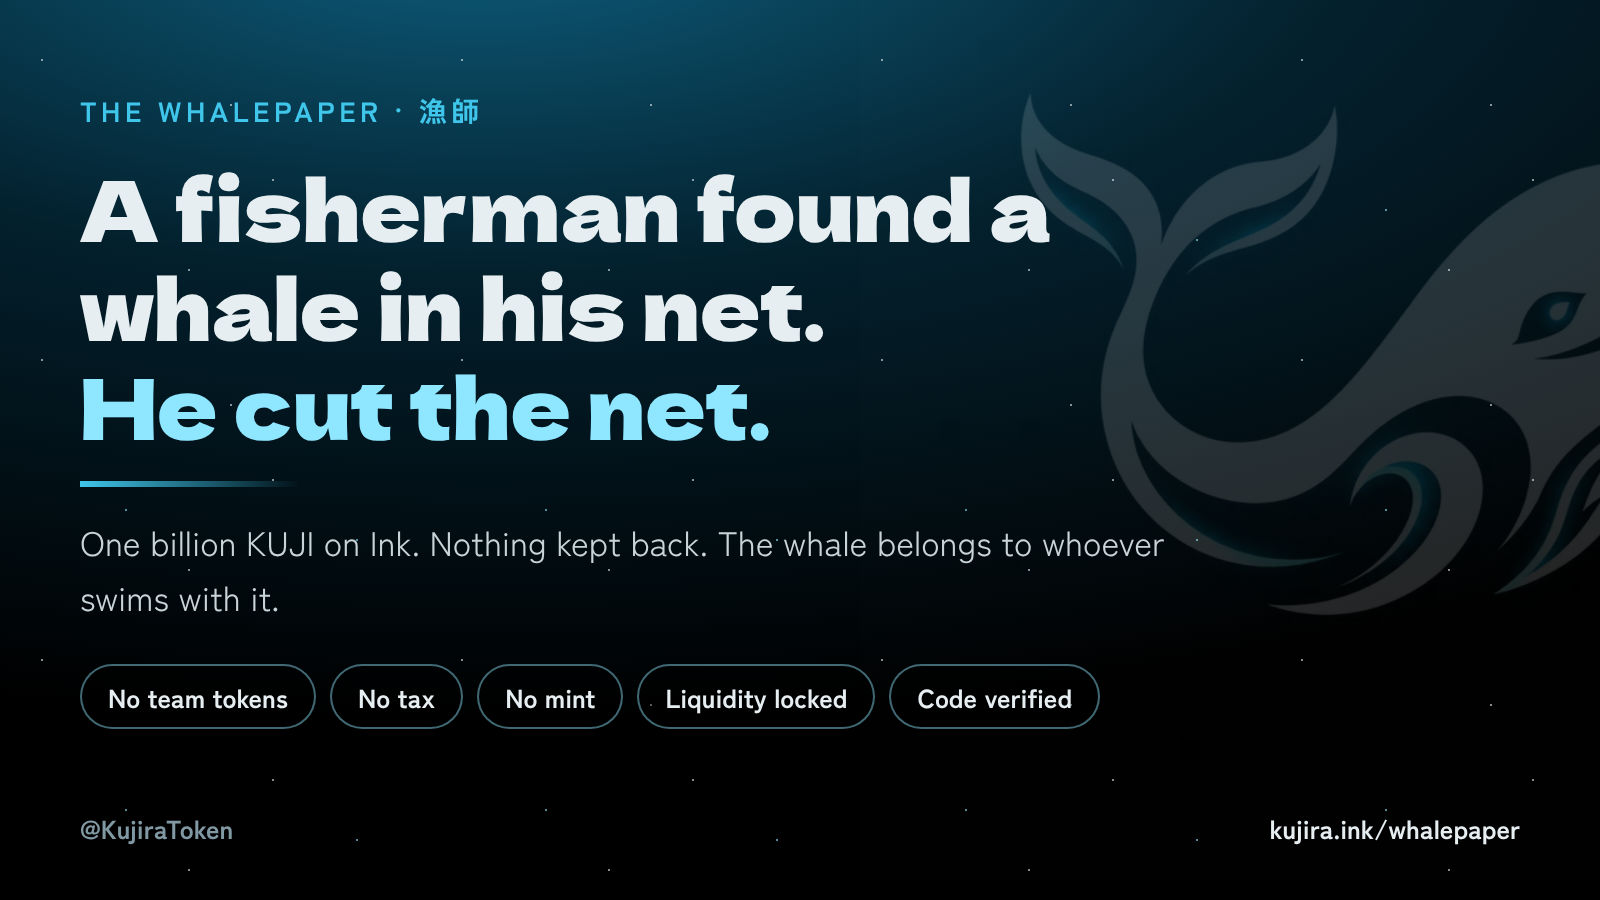
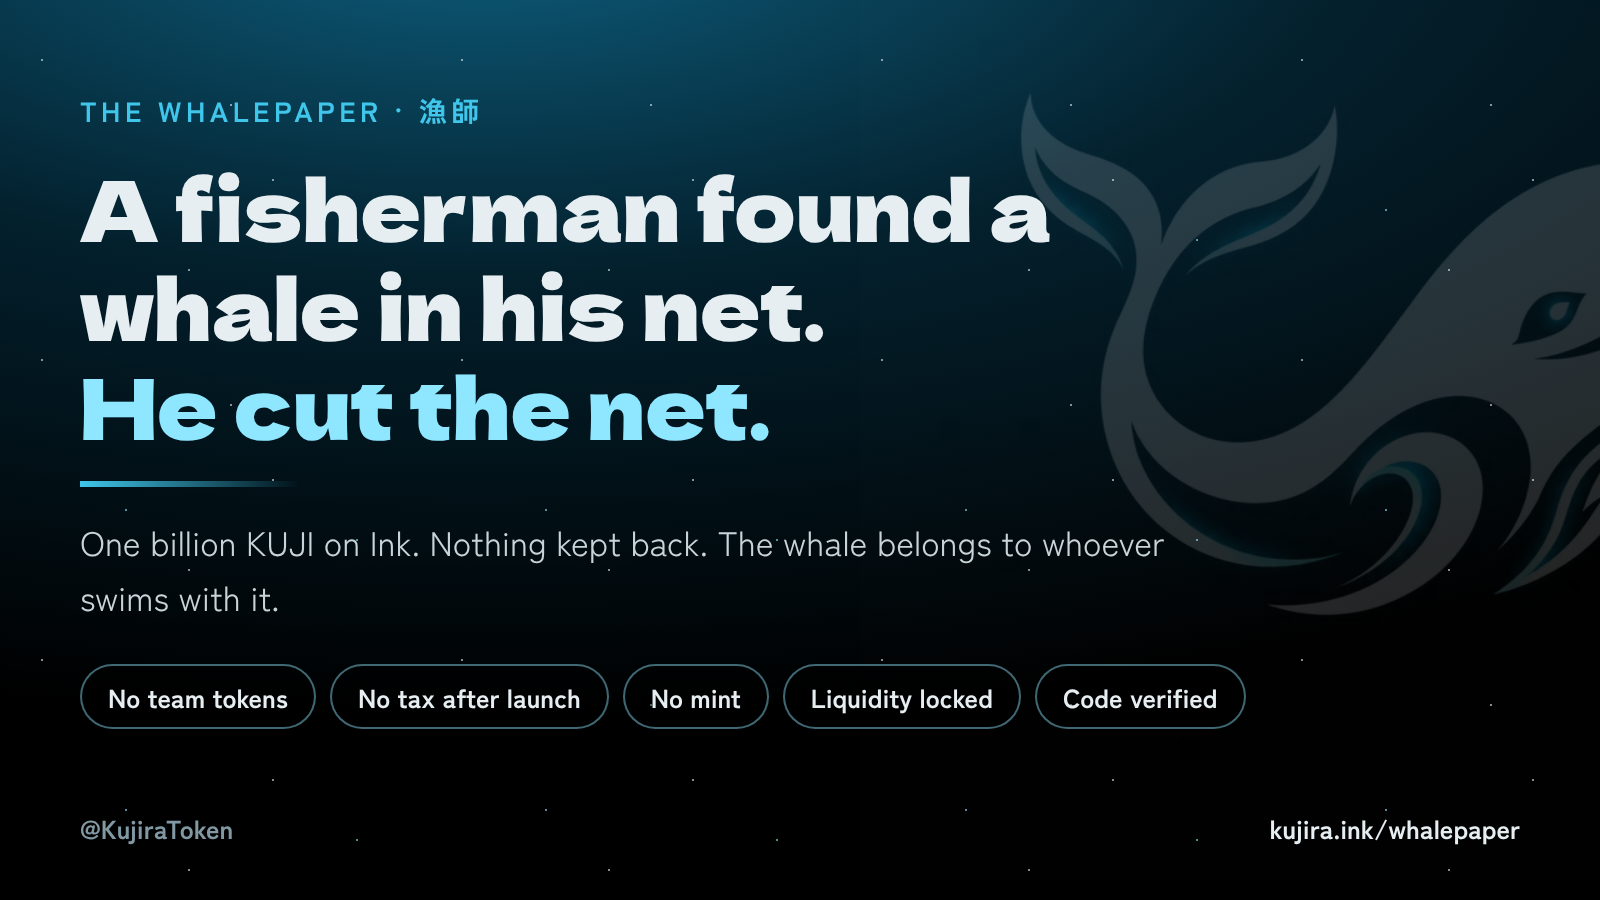
Add a launch tax on buys: 25% falling to 0 over the first 30 minutes
Against sniper bots. KujiraToken derives its 1% Uniswap v3 pool address from the
factory in the constructor and starts a 30-minute clock when the launch liquidity
first goes in. Buys from that pool pay 25% at the first second, falling linearly
to 0, sent to the fee wallet; after that nothing is taxed, ever. There is no owner
and no way to change or restart it. Sells aren't taxed: Uniswap v3 rejects tokens
that deliver less than they were sent into the pool.

Rehearsed on an Ink mainnet fork through Uniswap's router: the derived pool matches
the real one; buys paid 24.6% at 26 seconds, 12% at 15 minutes and 0 at 30; sells
in the window go through untaxed. The site shows the live rate during the window,
and the copy everywhere now says no tax after launch.

Claude-Session: https://claude.ai/code/session_01XxZqz6aMt2Q9VCvZQpjXkg

Changed region(s): [[0.2812, 0.7467, 0.7812, 0.8089]]

diff --git a/test/KujiraToken.test.js b/test/KujiraToken.test.js
@@ -1,10 +1,13 @@
 const { expect } = require("chai");
 const { ethers } = require("hardhat");
+const { time, impersonateAccount, setBalance } = require("@nomicfoundation/hardhat-toolbox/network-helpers");
+
+const NONE = [ethers.ZeroAddress, ethers.ZeroAddress, ethers.ZeroAddress];
 
 describe("KujiraToken", function () {
   it("mints the fixed supply once to the recipient", async function () {
     const [deployer, holder] = await ethers.getSigners();
-    const token = await ethers.deployContract("KujiraToken", [holder.address]);
+    const token = await ethers.deployContract("KujiraToken", [holder.address, ...NONE]);
     const supply = ethers.parseEther("1000000000");
     expect(await token.totalSupply()).to.equal(supply);
     expect(await token.balanceOf(holder.address)).to.equal(supply);
@@ -14,27 +17,114 @@ describe("KujiraToken", function () {
 
   it("rejects the zero address as recipient", async function () {
     const Token = await ethers.getContractFactory("KujiraToken");
-    await expect(Token.deploy(ethers.ZeroAddress)).to.be.revertedWithCustomError(Token, "ZeroAddress");
+    await expect(Token.deploy(ethers.ZeroAddress, ...NONE)).to.be.revertedWithCustomError(Token, "ZeroAddress");
   });
 
   it("has no owner or mint function", async function () {
     const [deployer] = await ethers.getSigners();
-    const token = await ethers.deployContract("KujiraToken", [deployer.address]);
+    const token = await ethers.deployContract("KujiraToken", [deployer.address, ...NONE]);
     expect(token.interface.getFunction("owner", [])).to.equal(null);
     expect(token.interface.getFunction("mint", [])).to.equal(null);
   });
 
   it("lets holders burn, shrinking total supply", async function () {
     const [deployer] = await ethers.getSigners();
-    const token = await ethers.deployContract("KujiraToken", [deployer.address]);
+    const token = await ethers.deployContract("KujiraToken", [deployer.address, ...NONE]);
     await token.burn(ethers.parseEther("1000"));
     expect(await token.totalSupply()).to.equal(ethers.parseEther("999999000"));
   });
 
   it("transfers the exact amount (no tax)", async function () {
     const [deployer, other] = await ethers.getSigners();
-    const token = await ethers.deployContract("KujiraToken", [deployer.address]);
+    const token = await ethers.deployContract("KujiraToken", [deployer.address, ...NONE]);
     await token.transfer(other.address, 12345n);
     expect(await token.balanceOf(other.address)).to.equal(12345n);
+  });
+
+  describe("launch tax", function () {
+    const FACTORY = "0x640887A9ba3A9C53Ed27D0F7e8246A4F933f3424";
+    const WETH = "0x4200000000000000000000000000000000000006";
+
+    async function launched() {
+      const [deployer, taxWallet, buyer] = await ethers.getSigners();
+      const token = await ethers.deployContract("KujiraToken", [deployer.address, FACTORY, WETH, taxWallet.address]);
+      const poolAddr = await token.pool();
+      await impersonateAccount(poolAddr);
+      await setBalance(poolAddr, ethers.parseEther("1"));
+      const pool = await ethers.getSigner(poolAddr);
+      return { token, deployer, taxWallet, buyer, pool };
+    }
+
+    it("derives the Uniswap pool address the factory will use", async function () {
+      const [deployer, taxWallet] = await ethers.getSigners();
+      const token = await ethers.deployContract("KujiraToken", [deployer.address, FACTORY, WETH, taxWallet.address]);
+      const k = await token.getAddress();
+      const [t0, t1] = k.toLowerCase() < WETH.toLowerCase() ? [k, WETH] : [WETH, k];
+      const salt = ethers.keccak256(ethers.AbiCoder.defaultAbiCoder().encode(["address", "address", "uint24"], [t0, t1, 10000]));
[1 lines of base64/hex data omitted]
+      expect(await token.pool()).to.equal(expected);
+      expect(await token.taxRecipient()).to.equal(taxWallet.address);
+    });
+
+    it("has no tax before launch, and the launch liquidity starts the clock untaxed", async function () {
+      const { token, deployer, pool } = await launched();
+      expect(await token.launchTaxBps()).to.equal(0n);
+      const amount = ethers.parseEther("550000000");
+      await expect(token.transfer(pool.address, amount)).to.emit(token, "Launched");
+      expect(await token.balanceOf(pool.address)).to.equal(amount);
+      expect(await token.launchedAt()).to.be.greaterThan(0n);
+      expect(await token.launchTaxBps()).to.equal(2500n);
+      expect(deployer.address).to.not.equal(pool.address);
+    });
+
+    it("taxes buys from 25% falling to 0 over 30 minutes, paid to the tax wallet", async function () {
+      const { token, taxWallet, buyer, pool } = await launched();
+      await token.transfer(pool.address, ethers.parseEther("550000000"));
+      const start = await token.launchedAt();
+      const buy = ethers.parseEther("1000");
+
+      // A buy one second after launch: 25% * (1799/1800)
+      await time.setNextBlockTimestamp(start + 1n);
+      await token.connect(pool).transfer(buyer.address, buy);
+      const tax1 = (buy * ((2500n * 1799n) / 1800n)) / 10000n;
+      expect(await token.balanceOf(taxWallet.address)).to.equal(tax1);
+      expect(await token.balanceOf(buyer.address)).to.equal(buy - tax1);
+
+      // Halfway: 12.5%
+      await time.setNextBlockTimestamp(start + 900n);
+      await token.connect(pool).transfer(buyer.address, buy);
+      expect(await token.balanceOf(taxWallet.address)).to.equal(tax1 + (buy * 1250n) / 10000n);
+
+      // After 30 minutes: nothing, ever again
+      await time.setNextBlockTimestamp(start + 1800n);
+      const before = await token.balanceOf(buyer.address);
+      await token.connect(pool).transfer(buyer.address, buy);
+      expect((await token.balanceOf(buyer.address)) - before).to.equal(buy);
+      expect(await token.launchTaxBps()).to.equal(0n);
+    });
+
+    it("never taxes sells, wallet transfers, or the tax wallet's own buys", async function () {
+      const { token, deployer, taxWallet, buyer, pool } = await launched();
+      await token.transfer(pool.address, ethers.parseEther("550000000"));
+      // sell into the pool
+      await token.transfer(buyer.address, ethers.parseEther("100"));
+      const poolBefore = await token.balanceOf(pool.address);
+      await token.connect(buyer).transfer(pool.address, ethers.parseEther("100"));
+      expect((await token.balanceOf(pool.address)) - poolBefore).to.equal(ethers.parseEther("100"));
+      // wallet to wallet
+      await token.transfer(buyer.address, 777n);
+      expect(await token.balanceOf(buyer.address)).to.equal(777n);
+      // the tax wallet buying
+      await token.connect(pool).transfer(taxWallet.address, ethers.parseEther("10"));
+      expect(await token.balanceOf(taxWallet.address)).to.equal(ethers.parseEther("10"));
+      expect(deployer.address).to.not.equal(buyer.address);
+    });
+
+    it("needs WETH and a tax wallet when a factory is given", async function () {
+      const [deployer] = await ethers.getSigners();
+      const Token = await ethers.getContractFactory("KujiraToken");
+      await expect(Token.deploy(deployer.address, FACTORY, WETH, ethers.ZeroAddress)).to.be.revertedWithCustomError(Token, "ZeroAddress");
+      await expect(Token.deploy(deployer.address, FACTORY, ethers.ZeroAddress, deployer.address)).to.be.revertedWithCustomError(Token, "ZeroAddress");
+    });
   });
 });

diff --git a/site/whalepaper.html b/site/whalepaper.html
@@ -67,7 +67,7 @@
     <section class="lore" data-depth="800" data-zone="Twilight Zone">
       <p class="zone-label">III. What Kujira is not</p>
       <h2 class="lore-head">Not a promise.</h2>
-      <p class="lore-body">KUJI is a meme. It has no intrinsic value, no roadmap of riches, no team, no presale, no investors and no tax. Nobody is promising you a return, and you should not buy anything you can't afford to lose. If it grows, it grows because people chose to gather.</p>
+      <p class="lore-body">KUJI is a meme. It has no intrinsic value, no roadmap of riches, no team, no presale, no investors, and no tax after the first 30 minutes. Nobody is promising you a return, and you should not buy anything you can't afford to lose. If it grows, it grows because people chose to gather.</p>
     </section>
 
     <section class="lore" data-depth="1200" data-zone="Midnight Zone">
@@ -77,9 +77,9 @@
         <li><b>No team tokens.</b> Not one KUJI held back.</li>
         <li><b>Liquidity locked forever.</b> The KUJI/ETH liquidity sits in a 1% Uniswap pool, owned by a contract with no way to remove it. Anyone can read it.</li>
         <li><b>No insider ETH.</b> The pool opened at a $10k market cap with KUJI only. Every ETH in it came from a buyer.</li>
-        <li><b>The one toll.</b> Every trade pays Uniswap's 1% pool fee, and that fee goes to the fisherman's wallet. It pays for the site, the art and the Drops. It's the only thing the fisherman takes, and the contract that collects it is public.</li>
+        <li><b>The tolls, out in the open.</b> Every trade pays Uniswap's 1% pool fee, and that fee goes to the fisherman's wallet; the contract that collects it is public. For the first 30 minutes there is also a launch tax on buys, starting at 25% and falling every second to 0, so sniper bots pay for rushing in. It goes to the same wallet, it's written into the token, and it can never be switched back on. These pay for the site, the art and the Drops, and they're everything the fisherman takes.</li>
         <li><b>Code you can read.</b> Every contract is verified on the Ink explorer, and the code is open.</li>
-        <li><b>No hidden switches.</b> No tax on transfers, no blacklist, no pause, no upgrades.</li>
+        <li><b>No hidden switches.</b> No tax after the launch window, no blacklist, no pause, no upgrades.</li>
       </ul>
       <p class="muted">The spirit is Ryoshi's, who launched Shiba Inu with no team allocation and the liquidity out of reach. Kujira isn't connected to Ryoshi or Shiba Inu.</p>
     </section>
@@ -120,7 +120,7 @@
       <h2 class="lore-head">The fisherman holds a rope, not a net.</h2>
       <ul class="tenets">
         <li><b>Can:</b> add rewards to the Pod, start Drop rounds from the published lists, burn unused Drop tokens, and collect the 1% pool fee.</li>
-        <li><b>Cannot:</b> mint KUJI, tax transfers, freeze a wallet, touch anyone's stake, take the Drop or Pod pools, or remove the locked liquidity.</li>
+        <li><b>Cannot:</b> mint KUJI, add or extend a tax, freeze a wallet, touch anyone's stake, take the Drop or Pod pools, or remove the locked liquidity.</li>
         <li><b>Will:</b> hand the remaining controls to a community multisig, or give them up entirely, once the rounds are done.</li>
       </ul>
     </section>

diff --git a/brand/templates.html b/brand/templates.html
@@ -54,7 +54,7 @@
   <div style="position:absolute;right:90px;top:80px;text-align:right">
     <p class="k" style="font-size:22px">Kujira · 鯨 · on Ink</p>
     <h1 class="big" style="font-size:80px;margin-top:14px">Something has been<br>growing in the deep.</h1>
-    <p style="font-size:22px;color:var(--muted);margin-top:24px;font-weight:600">No team · No tax · Liquidity locked forever · kujira.ink</p>
+    <p style="font-size:22px;color:var(--muted);margin-top:24px;font-weight:600">No team · No tax after launch · Liquidity locked forever · kujira.ink</p>
   </div>
 </div>
 
@@ -71,7 +71,7 @@
     <h2 class="big" style="font-size:84px;margin-top:26px;max-width:1250px">A fisherman found a whale in his net.<br><span style="color:var(--hi)">He cut the net.</span></h2>
     <div class="rule"></div>
     <p style="font-size:34px;max-width:1100px;line-height:1.6">One billion KUJI on Ink. Nothing kept back. The whale belongs to whoever swims with it.</p>
-    <div class="chips"><span>No team tokens</span><span>No tax</span><span>No mint</span><span>Liquidity locked</span><span>Code verified</span></div>
+    <div class="chips"><span>No team tokens</span><span>No tax after launch</span><span>No mint</span><span>Liquidity locked</span><span>Code verified</span></div>
   </div>
   <div class="foot"><span>@KujiraToken</span><b>kujira.ink/whalepaper</b></div>
 </div>
@@ -133,12 +133,12 @@
     <h2 class="big" style="font-size:80px;margin-top:20px">The fisherman keeps none of the whale.</h2>
     <div style="display:grid;grid-template-columns:1fr 1fr;gap:20px 60px;margin-top:60px;font-size:34px;line-height:1.5">
       <p><b style="color:var(--hi);font-family:S,serif;font-weight:400;font-size:72px">0%</b><br>Team tokens</p>
-      <p><b style="color:var(--hi);font-family:S,serif;font-weight:400;font-size:72px">0%</b><br>Buy and sell tax</p>
+      <p><b style="color:var(--hi);font-family:S,serif;font-weight:400;font-size:72px">0%</b><br>Tax after the first 30 minutes</p>
       <p><b style="color:var(--hi);font-family:S,serif;font-weight:400;font-size:72px">55%</b><br>Liquidity, locked forever</p>
       <p><b style="color:var(--hi);font-family:S,serif;font-weight:400;font-size:72px">45%</b><br>To holders: Drop and Pod</p>
     </div>
   </div>
-  <div class="foot"><span>@KujiraToken · 1% pool fee is his only toll</span><b>kujira.ink/whalepaper</b></div>
+  <div class="foot"><span>@KujiraToken · his tolls: the 1% pool fee, a 30-minute launch tax</span><b>kujira.ink/whalepaper</b></div>
 </div>
 
 <script>

diff --git a/site/app.js b/site/app.js
@@ -10,6 +10,7 @@
     "function balanceOf(address) view returns (uint256)",
     "function allowance(address,address) view returns (uint256)",
     "function approve(address,uint256) returns (bool)",
+    "function launchedAt() view returns (uint64)",
   ];
   const POD_ABI = [
     "function totalStaked() view returns (uint256)",
@@ -149,6 +150,31 @@
       link("Drop (airdrop pool)", c.KujiraDrop) +
       (c.KujiraLiquidityLock ? link("Liquidity lock (1% pool fee)", c.KujiraLiquidityLock) : "") +
       (data.launch ? link("Uniswap pool (KUJI/ETH, 1%)", data.launch.pool) : "");
+    watchLaunchTax().catch(() => {});
+  }
+
+  // During the first 30 minutes after the pool opens, show the launch tax on buys as it
+  // falls (KujiraToken.launchTaxBps: 25% at the start, linear to 0).
+  async function watchLaunchTax() {
+    const token = new ethers.Contract(data.contracts.KujiraToken, TOKEN_ABI, reader);
+    const start = Number(await token.launchedAt());
+    if (!start) return;
+    const end = start + 30 * 60;
+    const banner = $("tax-banner");
+    const tick = () => {
+      const left = end - Date.now() / 1000;
+      if (left <= 0) {
+        banner.hidden = true;
+        clearInterval(timer);
+        return;
+      }
+      const pct = (25 * left) / 1800;
+      const m = Math.floor(left / 60), s = Math.floor(left % 60);
+      banner.hidden = false;
+      banner.textContent = `Launch tax on buys right now: ${pct.toFixed(1)}%, falling to 0 in ${m}:${String(s).padStart(2, "0")}. It stops sniper bots and never comes back.`;
+    };
+    const timer = setInterval(tick, 1000);
+    tick();
   }
 
   // ------------------------------------------------------------------ wallet

diff --git a/site/index.html b/site/index.html
@@ -51,6 +51,7 @@
   <div class="ping" aria-hidden="true"><span></span></div>
 
   <main>
+    <p id="tax-banner" class="notice tax" hidden></p>
     <p id="notice" class="notice" hidden></p>
 
     <section class="lore tale-block" data-depth="200" data-zone="Twilight Zone">
@@ -81,11 +82,11 @@
       <h2 class="lore-head">Nothing hidden beneath the surface.</h2>
       <ul class="tenets">
         <li><b>One billion KUJI.</b> Minted once. No owner, no mint, ever.</li>
-        <li><b>No tax.</b> Every transfer moves the exact amount.</li>
+        <li><b>No tax after launch.</b> For the first 30 minutes after launch, buys pay a launch tax that starts at 25% and falls every second to 0, so sniper bots pay for rushing. It goes to the fisherman's wallet, it's written into the token, and it can never come back. After that, every transfer moves the exact amount.</li>
         <li><b>No blacklist, no pause.</b> Nobody can freeze a wallet.</li>
         <li><b>Not upgradeable.</b> The code you read is the code that runs.</li>
         <li><b>No team tokens.</b> The fisherman kept none of the whale. Not one KUJI held back.</li>
-        <li><b>Liquidity locked forever.</b> It sits in a 1% Uniswap pool owned by a contract that can never remove it. The pool's 1% trading fee is the fisherman's only toll, and the contract that collects it is public.</li>
+        <li><b>Liquidity locked forever.</b> It sits in a 1% Uniswap pool owned by a contract that can never remove it. The pool's 1% trading fee goes to the fisherman, and the contract that collects it is public.</li>
         <li><b>Rewards pre-funded.</b> Staking pays from a fixed pool, never by printing.</li>
       </ul>
     </section>

diff --git a/scripts/deploy.js b/scripts/deploy.js
@@ -45,10 +45,16 @@ async function main() {
   console.log(`Network:  ${network.name} (chainId ${chainId})`);
   console.log(`Deployer: ${deployer.address}`);
 
-  const token = await ethers.deployContract("KujiraToken", [deployer.address]);
+  // The launch tax needs the Uniswap pool, so only networks with Uniswap get one.
+  const taxUni = uni || (local ? cfg.uniswapV3.ink : null);
+  const tokenArgs = taxUni
+    ? [deployer.address, taxUni.factory, taxUni.weth, feeRecipient || deployer.address]
+    : [deployer.address, ethers.ZeroAddress, ethers.ZeroAddress, ethers.ZeroAddress];
+  const token = await ethers.deployContract("KujiraToken", tokenArgs);
   await token.waitForDeployment();
   const tokenAddress = await token.getAddress();
   console.log(`KujiraToken: ${tokenAddress}`);
+  if (taxUni) console.log(`Launch tax:  25% falling to 0 over 30 minutes on buys from ${await token.pool()}, to ${tokenArgs[3]}`);
 
   const pod = await ethers.deployContract("KujiraPod", [tokenAddress, deployer.address]);
   await pod.waitForDeployment();
@@ -96,6 +102,7 @@ async function main() {
     chainId,
     deployer: deployer.address,
     KujiraToken: tokenAddress,
+    tokenArgs,
     KujiraPod: podAddress,
     KujiraDrop: dropAddress,
     KujiraLiquidityLock: lockAddress,

diff --git a/test/KujiraDrop.test.js b/test/KujiraDrop.test.js
@@ -8,7 +8,7 @@ const e = (n) => ethers.parseEther(String(n));
 
 async function deploy() {
   const [owner, alice, bob, carol] = await ethers.getSigners();
-  const token = await ethers.deployContract("KujiraToken", [owner.address]);
+  const token = await ethers.deployContract("KujiraToken", [owner.address, ethers.ZeroAddress, ethers.ZeroAddress, ethers.ZeroAddress]);
   const pod = await ethers.deployContract("KujiraPod", [await token.getAddress(), owner.address]);
   const drop = await ethers.deployContract("KujiraDrop", [await pod.getAddress(), owner.address]);
   await token.transfer(await drop.getAddress(), e(1000));

diff --git a/scripts/check-liquidity-lock-fork.js b/scripts/check-liquidity-lock-fork.js
@@ -32,7 +32,7 @@ async function main() {
   const [lp, feeWallet, trader] = await ethers.getSigners();
   const fmt = ethers.formatEther;
 
-  const kuji = await ethers.deployContract("KujiraToken", [lp.address]);
+  const kuji = await ethers.deployContract("KujiraToken", [lp.address, ethers.ZeroAddress, ethers.ZeroAddress, ethers.ZeroAddress]);
   const lock = await ethers.deployContract("KujiraLiquidityLock", [ink.positionManager, await kuji.getAddress(), feeWallet.address]);
   const npm = new ethers.Contract(ink.positionManager, NPM_ABI, lp);
   const weth = new ethers.Contract(ink.weth, WETH_ABI, lp);

diff --git a/site/style.css b/site/style.css
@@ -171,6 +171,7 @@ main { max-width: 760px; margin: 0 auto; padding: 64px 16px; display: grid; grid
 .btn[hidden] { display: none; }
 .btn.ghost { display: flex; width: 100%; margin-top: 8px; border-color: var(--line); color: var(--muted); }
 
+.notice.tax { border-color: var(--accent); color: var(--head); }
 .notice { margin: 0; padding: 12px 16px; border-radius: 14px; border: 1px solid var(--line); font-size: 15px; position: sticky; top: 64px; z-index: 5; background: #04101a; }
 .notice.err { border-color: var(--err); color: var(--err); }
 .notice.ok { border-color: var(--ok); color: var(--ok); }

diff --git a/test/KujiraPod.test.js b/test/KujiraPod.test.js
@@ -7,7 +7,7 @@ const e = (n) => ethers.parseEther(String(n));
 
 async function deploy() {
   const [owner, alice, bob, carol] = await ethers.getSigners();
-  const token = await ethers.deployContract("KujiraToken", [owner.address]);
+  const token = await ethers.deployContract("KujiraToken", [owner.address, ethers.ZeroAddress, ethers.ZeroAddress, ethers.ZeroAddress]);
   const pod = await ethers.deployContract("KujiraPod", [await token.getAddress(), owner.address]);
   for (const u of [alice, bob, carol]) {
     await token.transfer(u.address, e(20_000_000));

diff --git a/test/KujiraLiquidityLock.test.js b/test/KujiraLiquidityLock.test.js
@@ -6,7 +6,7 @@ const e = (n) => ethers.parseEther(String(n));
 
 async function deploy() {
   const [lp, fees, stranger, newFees] = await ethers.getSigners();
-  const kuji = await ethers.deployContract("KujiraToken", [lp.address]);
+  const kuji = await ethers.deployContract("KujiraToken", [lp.address, ethers.ZeroAddress, ethers.ZeroAddress, ethers.ZeroAddress]);
   const weth = await ethers.deployContract("MockToken");
   const npm = await ethers.deployContract("MockPositionManager");
   const lock = await ethers.deployContract("KujiraLiquidityLock", [

diff --git a/scripts/verify.js b/scripts/verify.js
@@ -18,7 +18,7 @@ async function main() {
   const d = JSON.parse(
     fs.readFileSync(path.join(__dirname, "..", "deployments", `${hre.network.name}.json`), "utf8")
   );
-  await verify("KujiraToken", d.KujiraToken, [d.deployer]);
+  await verify("KujiraToken", d.KujiraToken, d.tokenArgs);
   await verify("KujiraPod", d.KujiraPod, [d.KujiraToken, d.deployer]);
   await verify("KujiraDrop", d.KujiraDrop, [d.KujiraPod, d.deployer]);
   if (d.KujiraLiquidityLock) {
